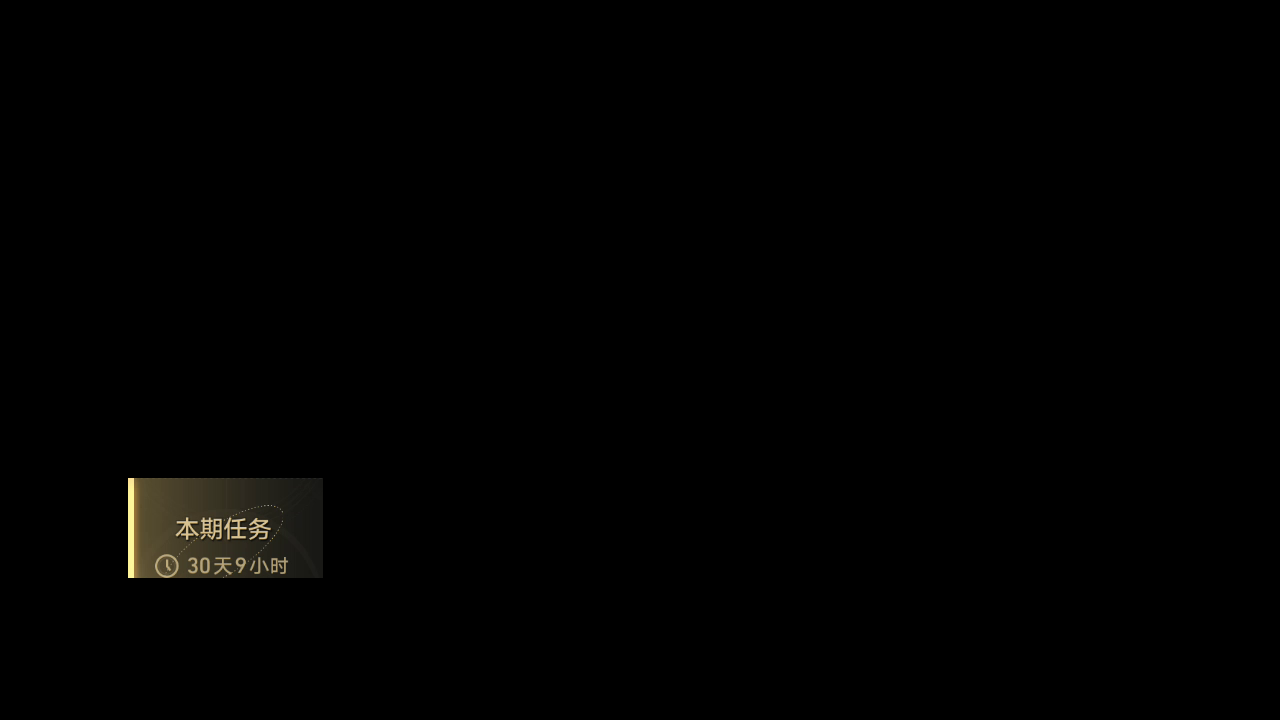
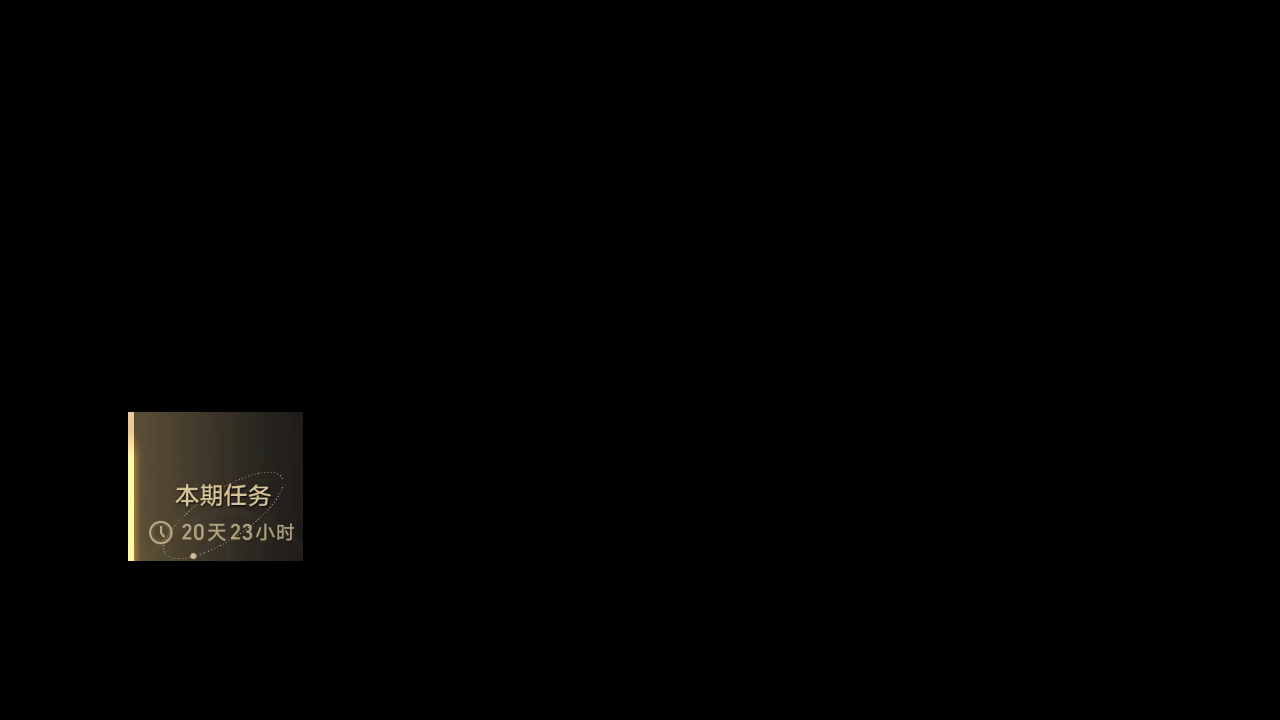
Upd: Battle pass tabs

Changed region(s): [[0.0938, 0.55, 0.25, 0.825]]

diff --git a/tasks/battle_pass/assets/assets_battle_pass.py b/tasks/battle_pass/assets/assets_battle_pass.py
@@ -97,10 +97,10 @@ PERIOD_MISSION_CLICK = ButtonWrapper(
     name='PERIOD_MISSION_CLICK',
     share=Button(
         file='./assets/share/battle_pass/PERIOD_MISSION_CLICK.png',
-        area=(128, 478, 323, 578),
-        search=(108, 458, 343, 598),
-        color=(72, 65, 45),
-        button=(128, 478, 323, 578),
+        area=(128, 412, 303, 561),
+        search=(108, 392, 323, 581),
+        color=(75, 67, 50),
+        button=(128, 412, 303, 561),
     ),
 )
 REWARDS_CHECK = ButtonWrapper(
@@ -164,9 +164,9 @@ WEEK_MISSION_CLICK = ButtonWrapper(
     name='WEEK_MISSION_CLICK',
     share=Button(
         file='./assets/share/battle_pass/WEEK_MISSION_CLICK.png',
-        area=(128, 336, 323, 477),
-        search=(108, 316, 343, 497),
-        color=(68, 62, 42),
-        button=(128, 336, 323, 477),
+        area=(128, 197, 302, 344),
+        search=(108, 177, 322, 364),
+        color=(76, 68, 51),
+        button=(128, 197, 302, 344),
     ),
 )
